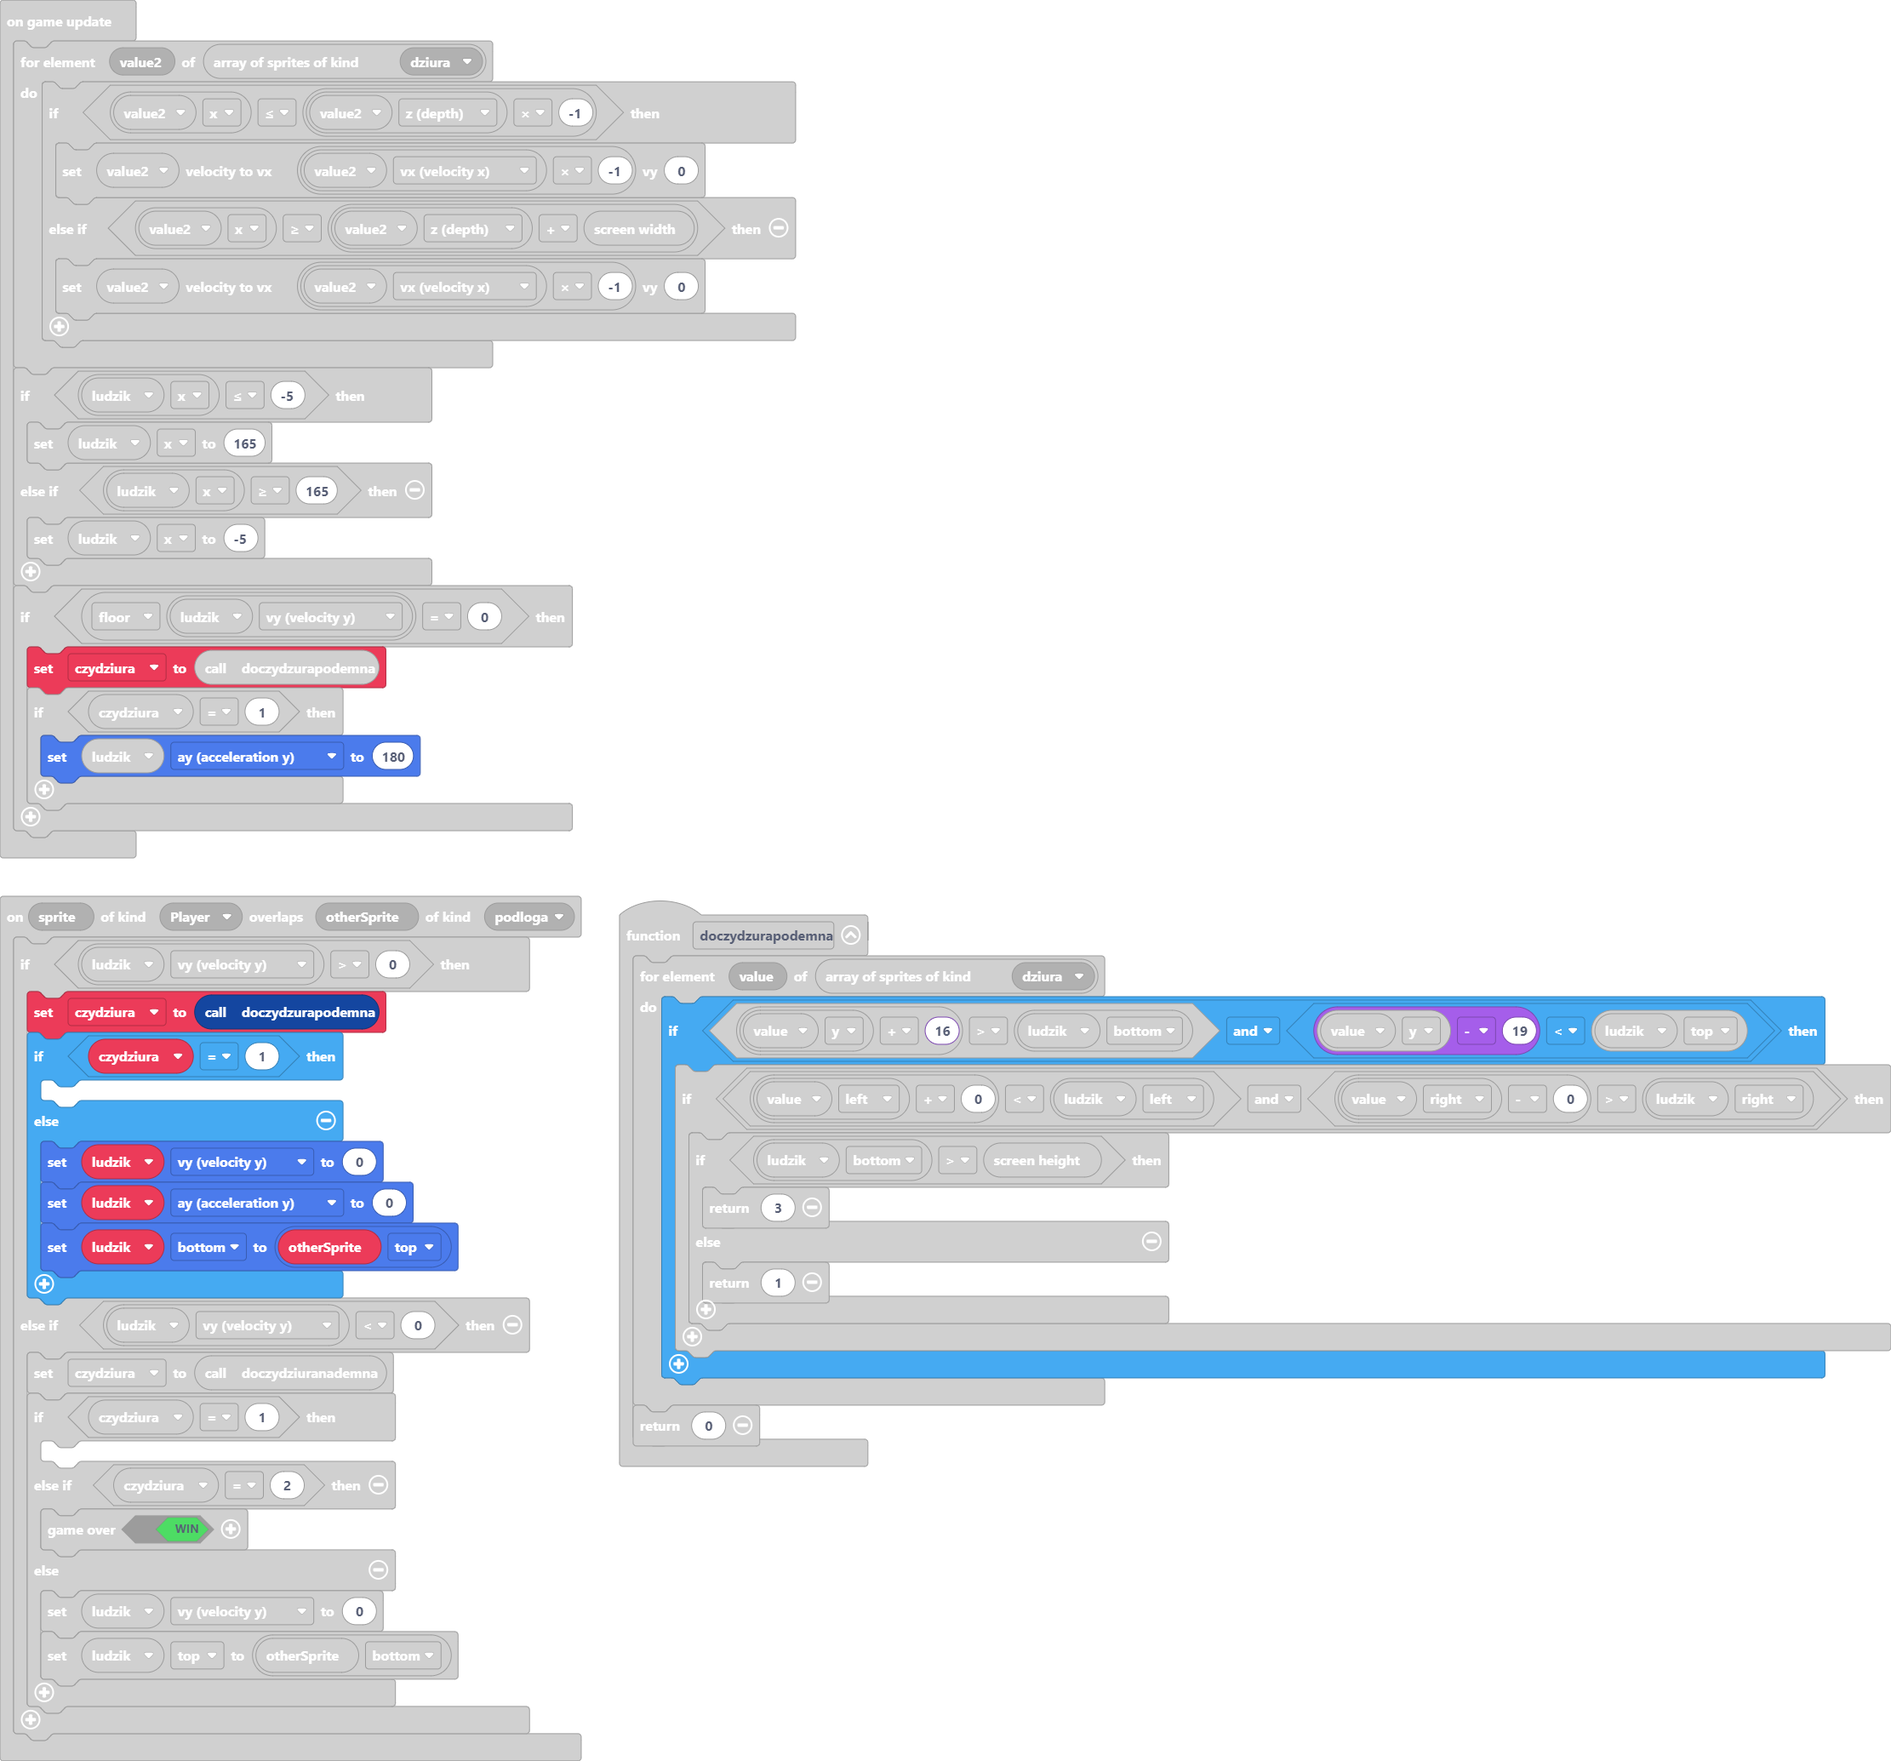
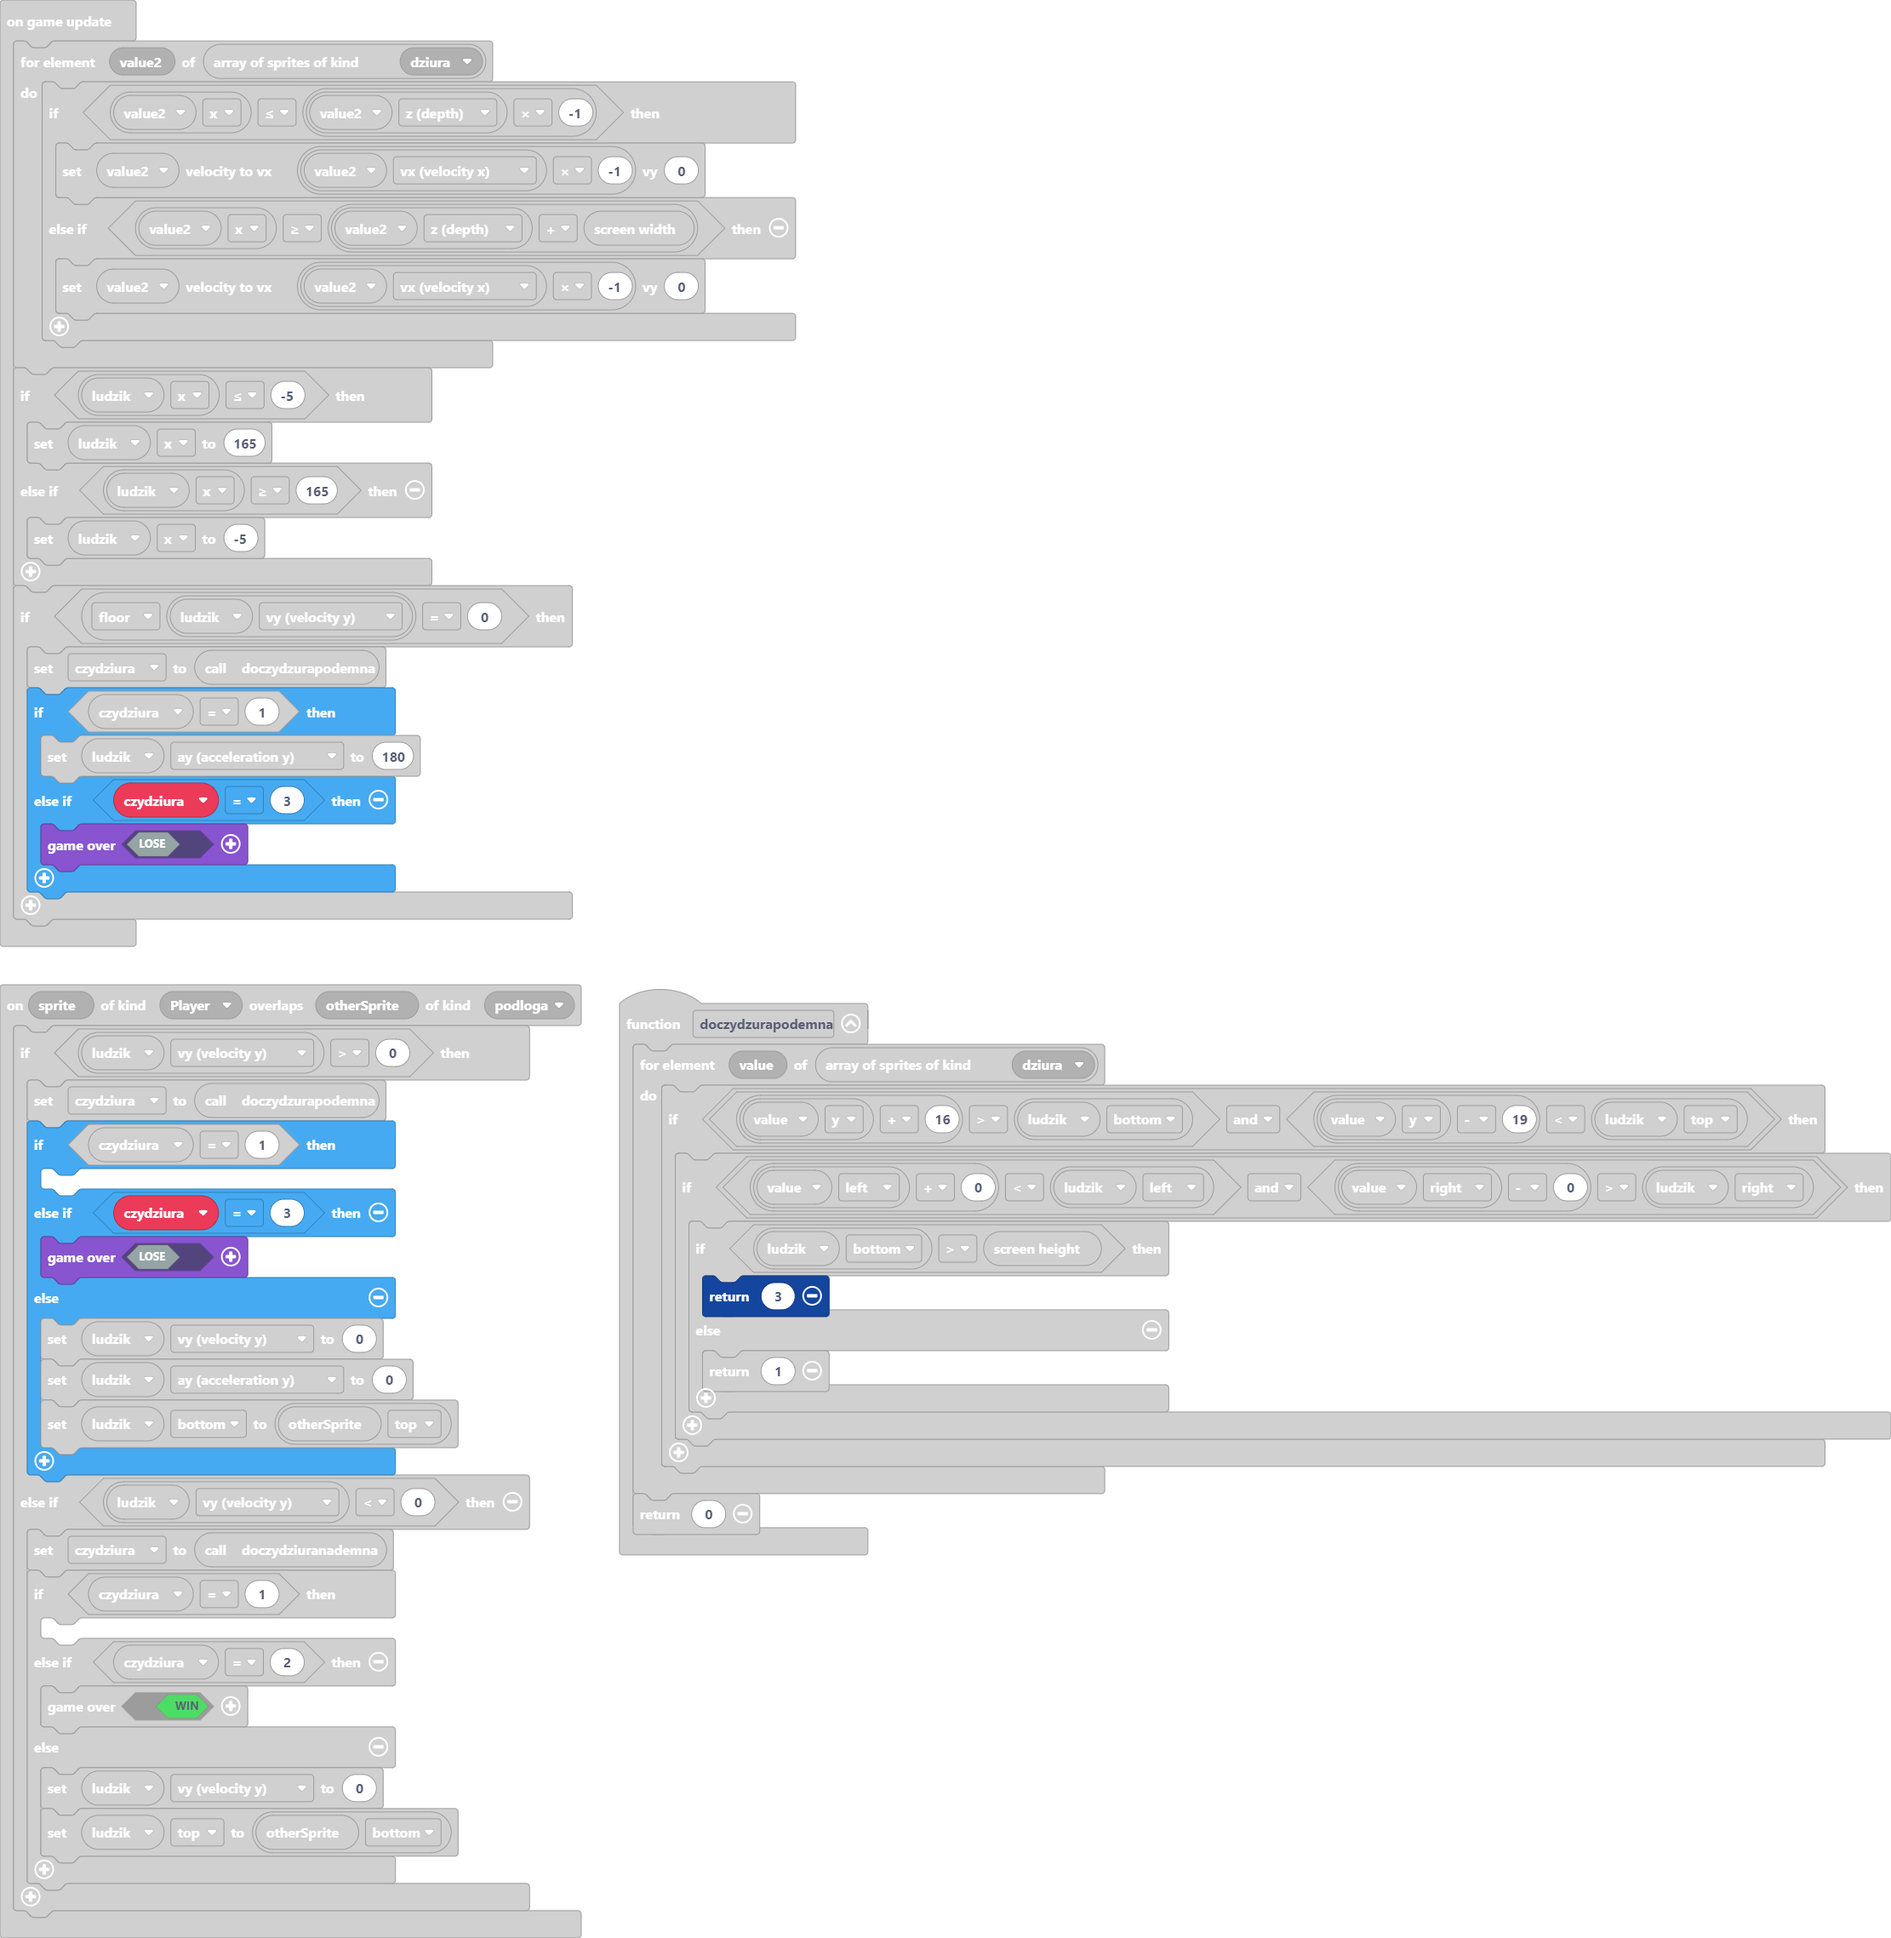
naprawione spadanie - ponizej dolnego ekranu

Changed region(s): [[0.0, 0.0, 0.4347, 0.9899], [0.3105, 0.4949, 1.0, 0.8352]]

diff --git a/main.ts b/main.ts
@@ -7,6 +7,8 @@ sprites.onOverlap(SpriteKind.Player, SpriteKind.podloga, function (sprite, other
         czydziura = doczydzurapodemna()
         if (czydziura == 1) {
         	
+        } else if (czydziura == 3) {
+            game.over(false)
         } else {
             ludzik.vy = 0
             ludzik.ay = 0
@@ -172,6 +174,8 @@ game.onUpdate(function () {
         czydziura = doczydzurapodemna()
         if (czydziura == 1) {
             ludzik.ay = 180
+        } else if (czydziura == 3) {
+            game.over(false)
         }
     }
 })
